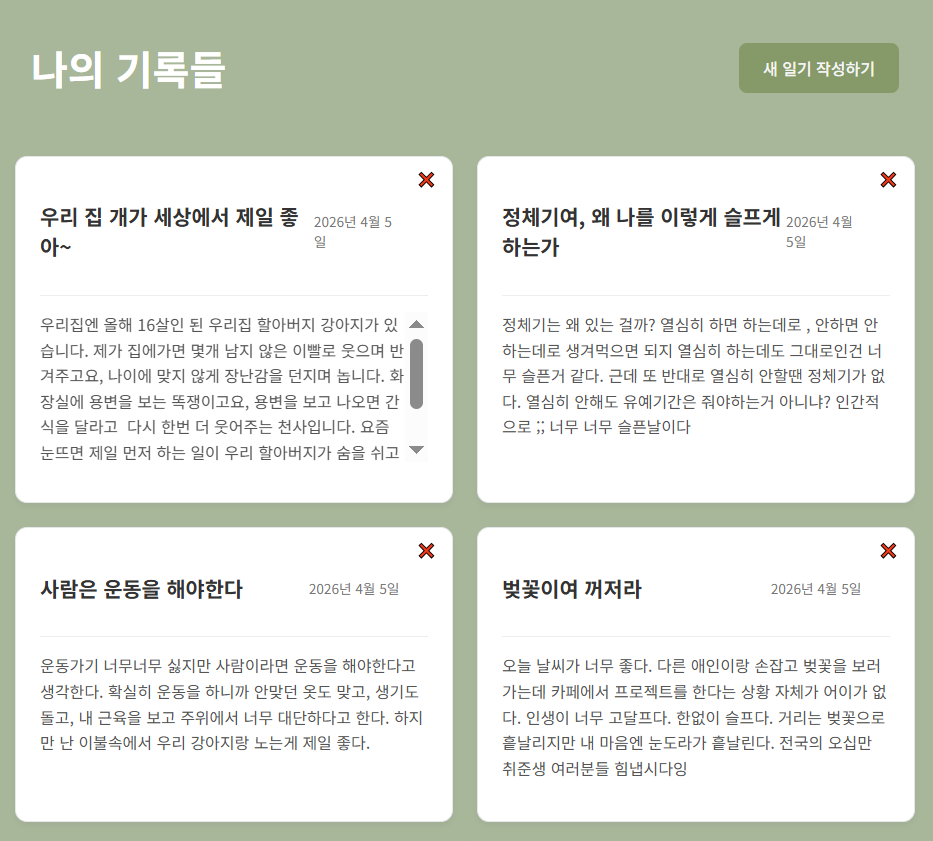
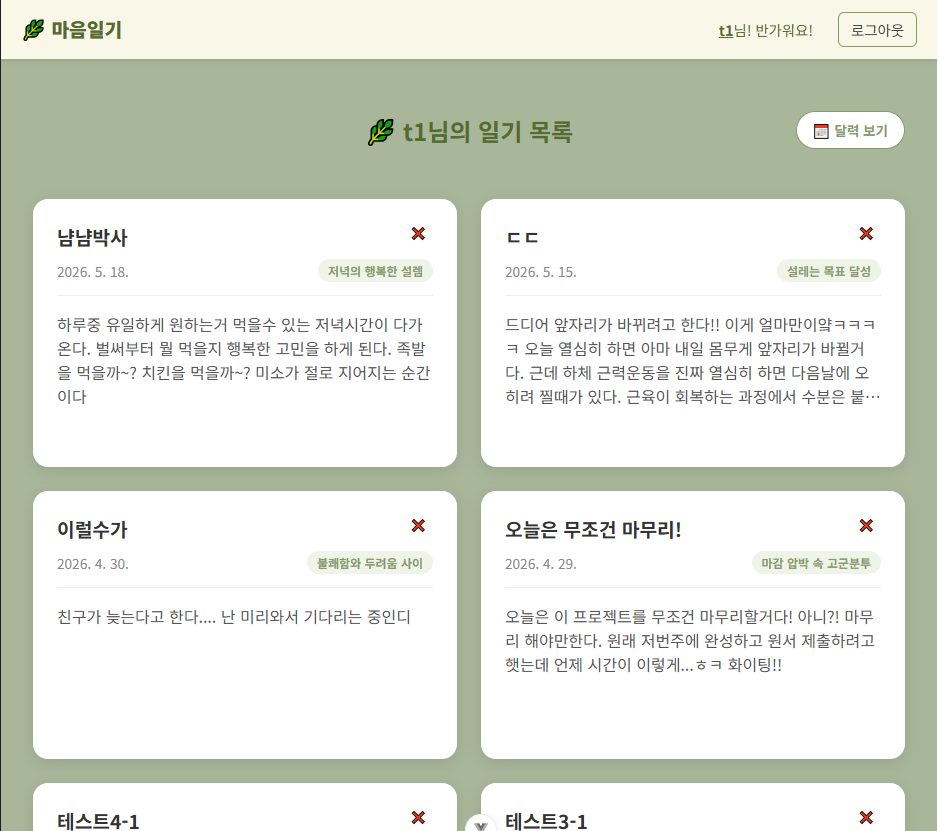
README 수정, 일기 삭제이상 수정, env코드 수정

diff --git a/front/src/views/DiaryList.vue b/front/src/views/DiaryList.vue
@@ -69,12 +69,12 @@
       </div>
     </div>
 
-    <div v-if="showDeleteModal" class="modal-overlay" @click="closeDeleteModal">
+    <div v-if="showDeleteModal" class="modal-overlay" @click="closeDetailModal">
       <div class="modal-content delete-confirm-modal" @click.stop>
         <h3>일기를 삭제할까요?</h3>
         <p>삭제한 기록은 되살릴 수 없습니다.</p>
         <div class="modal-actions">
-          <button class="cancel-btn" @click="closeDeleteModal">취소</button>
+          <button class="cancel-btn" @click="closeDetailModal">취소</button>
           <button class="confirm-delete-btn" @click="deleteDiary">삭제</button>
         </div>
       </div>
@@ -102,7 +102,7 @@ const calendarTitle = computed(() => {
 const fetchDiaries = async () => {
   try {
     const token = localStorage.getItem('access_token'); 
-    const res = await axios.get('http://localhost:8000/api/diaries/', {
+    const res = await axios.get(`${API_BASE_URL}diaries/`, {
       headers: {
         Authorization: `Bearer ${token}` 
       }
@@ -126,7 +126,6 @@ const openDetailModal = (diary) => {
 
 const openDeleteModal = (diary) => {
   selectedDiary.value = diary;
-  showDeleteModal.value = true; 
   showDeleteModal.value = true;
 };
 
@@ -140,17 +139,17 @@ const deleteDiary = async () => {
   const token = localStorage.getItem('access_token');
 
   try {
-    await axios.delete(`${API_URL}${selectedDiary.value.id}/`, {
+    await axios.delete(`${API_BASE_URL}diaries/${selectedDiary.value.id}/`, {
       headers: {
         Authorization: `Bearer ${token}`
       }
     });
 
-    await fetchDiaries();
+    await fetchDiaries(); 
     closeDetailModal();
     alert("일기가 삭제되었습니다.");
   } catch (error) {
-    console.error("삭제 실패:", error.res?.data || error);
+    console.error("삭제 실패:", error.response?.data || error);
     alert("삭제 중 오류가 발생했습니다.");
   }
 };

diff --git a/front/src/views/DiaryWrite.vue b/front/src/views/DiaryWrite.vue
@@ -80,10 +80,10 @@ export default {
       loadingInterval: null,
       recommendation: null,
       loadingMessages: [
-        "당신의 오늘을 읽고 있어요",
-        "AI가 마음을 분석 중이에요",
-        "당신에게 어울리는 노래를 찾는 중이에요",
-        "추천 이유를 정성껏 작성 중입니다",
+        "당신의 오늘을 읽고 있어요.",
+        "AI가 마음을 분석 중이에요.",
+        "당신에게 어울리는 노래를 찾는 중이에요.",
+        "추천 이유를 정성껏 작성 중입니다.",
         "거의 다 됐어요! 잠시만요~"
       ],
       currentMessageIndex: 0,

diff --git a/back/settings.py b/back/settings.py
@@ -157,7 +157,6 @@ STATICFILES_DIRS = [
 # 배포환경에서의 정적 파일 모아두는 곳
 # STATIC_ROOT = os.path.join(BASE_DIR, 'staticfiles')
 
-# 일기에 이미지를 첨부하는 기능에서 파일들을 저장하는 설정
 MEDIA_URL = '/media/'
 MEDIA_ROOT = os.path.join(BASE_DIR, 'media')
 

diff --git a/README.md b/README.md
@@ -1,166 +1,128 @@
-# 🌙 Light of Life
+# 🌿 Light of Life
 
-**텍스트 감정 분석 기반 음악 추천 일기 웹 서비스**
-
----
-
-## 📌 프로젝트 소개
-
-사용자가 일기를 작성하면 텍스트를 분석하여 감정을 도출하고,
-해당 감정에 맞는 음악을 추천해주는 웹 서비스입니다.
-
-단순 기록을 넘어, 감정 데이터를 기반으로 사용자 경험을 확장하는 것을 목표로 합니다.
+**사용자의 일기 텍스트를 AI로 분석하여 깊이 있는 감정 분석 리포트를 제공하고, 마음에 위로가 되는 맞춤형 음악(YouTube 링크)을 추천하는 감성 일기 웹 서비스 입니다.**
 
 ---
 
 ## 🎯 기획 배경
 
-일기는 감정을 정리하는 데 도움이 되지만, 단순 기록으로 끝나는 경우가 많습니다.  
-이 프로젝트는 사용자의 감정을 분석하고, 그 결과를 바탕으로 음악 추천까지 연결하여 더 몰입감 있는 기록 경험을 제공하고자 기획했습니다.
+일기는 하루의 감정을 정리하고 스스로를 돌아보는 데 좋은 도구이지만 대다수의 사용자들에게는 '단순 기록'으로 끝나는 경우가 많습니다. "내가 오늘 왜 이런 감정을 느꼈지?", "이럴 때 내 마음을 달래줄 음악은 없을까?"라는 고민에서 본 프로젝트가 시작되었습니다.
+
+Light of Life는 사용자의 감정을 단순히 기록하는 것을 넘어, AI 기술을 통해 감정 데이터를 시각화하고 맞춤형 음악 추천까지 연결함으로써 사용자에게 더 깊은 몰입감과 정서적 위로를 제공하는 것을 목표로 합니다.
 
 ---
 
 ## 🧠 핵심 기능
 
-### 1. 감정 분석 (Core Feature)
+1. 🌿 마음 달력 (대시보드): 일기를 기록한 날짜를 달력에 하이라이트(초록 점)로 표시하여 한눈에 나의 감정 기록 궤적을 추적할 수 있습니다.
 
-* 형태소 분석 기반 텍스트 처리 (KoNLPy - Okt)
-* 감정 사전 기반 점수 계산 (KNU 감성 사전 활용)
-* 커스텀 감정 사전 추가
-* 부정어 및 강조어 처리
+2. 🎭 AI 실시간 감정 분석: 일기를 작성하면 AI가 문맥을 분석하여 대표 감정 태그를 도출합니다.
 
-  * 예: "너무 좋다" → 가중치 증가
-  * 예: "어이가 없다" → 부정 처리
+3. 🎵 맞춤형 힐링 음악 추천: 분석된 감정 상태에 최적화된 추천 곡명과 추천 이유, 즉시 청취 가능한 유튜브(YouTube) 링크 버튼을 제공합니다.
+
+4. 📋 히스토리 관리: 과거에 작성했던 일기와 AI의 분석 리포트를 목록 및 모달 창을 통해 언제든지 다시 확인할 수 있습니다.
 
 ---
 
-### 2. 감정 점수 계산 로직
+## 📷 서비스 시연 및 화면 구성
+1. 로그인 및 회원가입 화면
 
-* 감정 단어별 기본 점수 부여
-* 강조어(booster) → 점수 가중치 적용
-* 부정어 → 감정 반전 처리
-* 최종 감정 분류
+<p align='left'>
+  <img src="./images/login.PNG" width='300'/>
+  <img src="./images/signup.PNG" width='300'/>
+</P>
 
-| 점수 범위 | 감정 |
-| ----- | -- |
-| ≥ 3   | 행복 |
-| ≥ 1   | 평온 |
-| ≤ -1  | 슬픔 |
-| ≤ -3  | 분노 |
-| 기타    | 중립 |
-
----
-
-### 3. 일기 작성 및 감정 결과 확인
-* 사용자가 일기를 입력하면 감정 분석 결과 제공
-* 감정 상태를 직관적으로 확인 가능
-
----
-
-### 4. 음악 추천 (구현 예정 / 확장 기능)
-
-* 감정 결과 기반 유튜브에서 음악 추천
-* Spotify / YouTube API 연동 예정
-
----
-
-### 5. 일기 기록 기능
-
-* 사용자가 일기 작성
-* 감정 결과와 함께 저장
-* 감정 데이터 기반 확장 가능
-
----
-
-## ⚙ 감정 분석 로직
-
-```text
-1. 텍스트 입력
-2. 전처리 (치환, 불용어 제거)
-3. 형태소 분석 (Okt)
-4. 감정 단어 추출
-5. 점수 계산
-   - 기본 점수
-   - 강조어 반영
-   - 부정어 반영
-6. 총합 계산
-7. 감정 분류
-```
-
----
-
-## 🧩 감정 점수 계산 방식
-* 기본점수: 감정 사전에 등록된 원래 점수
-* 최종점수: 강조어, 부정어 반영 후 실제 계산에 사용되는 점수
-  예시:
-  * 좋다 → 기본점수 2
-  * 너무 좋다 → 최종점수 3.0 (2 × 1.5)
-
----
-
-## 🛠 기술 스택
-
-### Backend
-
-* Django
-* Django REST Framework
-
-### NLP / AI
-
-* KoNLPy (Okt)
-* KNU 감성 사전
-* Hugging Face (확장 예정)
-
-### Front
-
-* Vue.js
-
-### 기타
-
-* 환경 변수 관리 (django-environ)
-
----
-
-## 🔥 주요 구현 포인트
-
-### ✔ 형태소 기반 감정 분석
-
-단순 키워드 포함 여부가 아니라 문자의 형태소를 분석하여 감정 단어를 추출하도록 구현했습니다.
-
-### ✔ 부정어 처리 개선
-
-'안', '못', '없다' 등과 같은 부정어가 문장 전체가 아닌 바로 다음 감정어에만 영향을 주도록 보완했습니다.
-
-### ✔ 커스텀 감정 사전 구축
-
-기존 감정 사전만으로는 반영되지 않는 표현을 보완하기 위해 '슬프다', '고달프다', '행복하다' 등의 단어를 별도로 추가했습니다.
-
-### ✔ 강조어 처리
-
-'너무', '정말', '매우' 등의 표현에 가중치를 부여하여 감정의 강도를 반영했습니다.
-
----
-
-📷 예시 화면
-
-### 일기 작성 화면
+2. 달력 (메인 대시보드)
 
 <p align='left'>
   <img src="./images/main1.PNG" width='300'/>
+  <img src="./images/main2.PNG" width='300'/>
 </P>
 
-### 분석 화면
+3. 일기 작성 화면
 
 <p align='left'>
-  <img src="./images/analyze1.PNG" width='300'/>
-  <img src="./images/analyze2.PNG" width='300'/>
+  <img src="./images/write.PNG" width='300'/>
 </P>
 
-### 일기 작성 리스트
+4. AI 분석화면
+
+<p align='left'>
+  <img src="./images/ai.PNG" width='300'/>
+  <img src="./images/ai2.PNG" width='300'/>
+  <img src="./images/ai3.PNG" width='300'/>
+</P>
+
+5. 일기 작성 리스트
 
 <p align='left'>
   <img src="./images/list.PNG" width='300'/>
+  <img src="./images/list2.PNG" width='300'/>
 </P>
+
+---
+
+## 🚀 AI 아키텍처 고도화 비교 실험
+
+본 프로젝트는 텍스트 감정 분석 및 음악 추천 기능의 Latency(대기 시간) 단축과 데이터 정형화를 목적으로 **Hugging Face 모델 연동 구조**와 **Gemini 단독 구조** 간의 비교 실험 및 리팩토링을 진행했습니다.
+
+### 📊 AI 모델 파이프라인 변천사
+
+* **[기존: 1세대 하이브리드 아키텍처]**
+    일기 작성 ➡ Hugging Face API (감정 텍스트 분류) ➡ 결과 파싱 ➡ Gemini API 전달 (음악 추천 및 이유 생성) ➡ 프론트엔드 반환 `(총 2회 API 호출)`
+* **[현재: 2세대 단독 올인원 아키텍처]**
+    일기 작성 ➡ Gemini 2.0 Flash API (감정 맥락 분석 + 음악 매칭 + 유튜브 URL 검색을 프롬프트 엔지니어링으로 동시 처리) ➡ 구조화된 JSON 반환 `(단 1회 API 호출)`
+
+### 📈 아키텍처 비교 분석 결과
+
+| 비교 지표 | [기존] Hugging Face + Gemini 하이브리드 | [현재] Gemini 2.0 Flash 단독 (최적화) |
+| :--- | :--- | :--- |
+| **시스템 복잡도** | **높음** (두 채널의 API 가동, 서로 다른 Response 포맷 핸들링 필요) | **낮음** (단일 API 엔드포인트 관리로 백엔드 코드 경량화) |
+| **네트워크 호출 (Round Trip)** | 총 2회 (Client ➡ 서버 ➡ HF API ➡ Gemini API) | **단 1회** (Client ➡ 서버 ➡ Gemini API) |
+| **평균 응답 속도 (Latency)** | 약 3.5초 ~ 5초 (HF 프리티어 모델의 콜드 스타트 및 2차 API 대기 시간 누적) | **약 1.2초 ~ 1.5초** (호출 단일화 및 Flash 모델 특유의 빠른 인퍼런스 속도 확보) |
+| **데이터 파싱 안정성** | **취약함** (HF가 뱉은 감정 단어 파싱 에러 및 Gemini의 비정형 텍스트 변환 에러 발생 위험 누적) | **강력함** (`response_mime_type: 'application/json'` 구조화 출력 설정을 통한 무결성 보장) |
+| **문맥(Context) 이해도** | **제한적** (HF 분류기가 단어 위주로 감정을 1차 재단하여, Gemini가 전체 일기 맥락을 깊게 인지하기 어려움) | **매우 높음** (일기 전체의 행간, 비유적 우울감, 반어법까지 LLM이 통으로 분석하여 정밀한 매칭 가능) |
+
+> 💡 **인프라 선회 배경**
+> 극초기 기획 단계에서는 KoNLPy(Okt) 형태소 분석기와 KNU 감성 사전을 결합한 규칙 기반 시스템을 구상했으나 단순 단어 매칭 방식으로는 "어이가 없다"와 같은 문맥적 의미나 강조어 가중치 처리에 한계가 있어 LLM 기반 아키텍처로 전면 선회하였습니다.
+
+---
+
+## 🛠 주요 구현 및 리팩토링 포인트 (Refactoring)
+
+정보처리기사 소프트웨어 공학 지식을 기반으로 서비스의 안정성, 보안성, 무결성을 확보한 핵심 구현 포인트입니다.
+
+### ① 엄격한 구조화 출력 (Strict Structured Outputs) 기반 AI 연동
+* **구현 배경**: LLM 단독 구조로 변경할 때 가장 큰 리스크는 AI가 무작위 텍스트(예: *"추천해 드리는 노래는..."*)를 섞어 반환하여 백엔드에서 JSON 파싱 에러(500 에러)를 유발한다는 점이었습니다.
+* **해결 방법**: Gemini API 호출 config에 `'response_mime_type': 'application/json'` 스키마를 강제 적용했습니다. 이로 인해 AI가 사설 없이 정확히 백엔드가 요구한 `emotion`, `recommendation_song`, `recommendation_reason`, `youtube_url` 키 값을 가진 JSON 규격만 반환하도록 설계하여 데이터 파싱 오류를 **0%**로 안정화했습니다.
+
+### ② 보안성 강화: 접근 제어 및 환경 변수(.env) 아키텍처 분리
+* **구현 배경**: 하드코딩된 Django JWT 시크릿 키, 구글 제미나이 API Key가 소스코드에 그대로 노출되어 GitHub 업로드 시 오픈소스 보안 탈취 위험에 직면했습니다. 또한, 다른 사용자의 일기 데이터가 유출 및 삭제되는 접근 제어 결함이 발견되었습니다.
+* **해결 방법**: 백엔드(`python-environ`) 및 프론트엔드(`import.meta.env`) 환경 변수 시스템을 구축하여 모든 기밀 데이터를 `.env` 파일로 격리하고 `.gitignore` 설정을 통해 보안 기밀성을 확보했습니다. 더불어 장고 뷰셋(`ModelViewSet`)의 `get_queryset` 메서드를 `Diary.objects.filter(author=self.request.user)` 구조로 리팩토링하여 **인가(Authorization)된 본인의 일기만 조회 및 삭제**가 가능하도록 철저한 데이터 격리를 구현했습니다.
+
+### ③ 데이터 무결성 확보: VCalendar 달력 날짜 매칭 버그 픽스
+* **구현 배경**: 장고(Django)가 생성한 생성일 타임스탬프 필드의 시간대(Timezone ISO-8601) 정보 차이로 인해 프론트엔드 달력 라이브러리(VCalendar)가 일기 작성일을 인식하지 못해 달력 대시보드 하이라이트가 누락되는 현상이 있었습니다.
+* **해결 방법**: 시간 단위를 배제하고 일자 단위 매칭을 제공하기 위해 백엔드 모델의 순수 일자 데이터(`date`) 필드를 매칭 키로 지정하고, JavaScript의 Date 객체 컨버팅 포맷을 일치시켜 달력 대시보드 기능을 정상화했습니다.
+
+---
+
+## 🛠 Tech Stack
+
+### 💻 Frontend
+* Vue 3 (Composition API, `<script setup>`)
+* Vue Router / Axios
+* VCalendar (달력 대시보드 및 마크 기능 구현)
+
+### ⚙ Backend
+* Django / Django REST Framework (DRF)
+* Simple JWT (토큰 기반 사용자 인증 및 인가 관리)
+
+### 🤖 AI & Infrastructure
+* Google Gemini 2.0 Flash API (Structured JSON Mode)
+* Git / GitHub (형상 관리 및 브랜치 전략)
+
+### 기타
+* django-environ (환경 변수 관리)
 
 ---
 
@@ -183,11 +145,18 @@ pip install -r requirements.txt
 ```
 
 ### 4. 환경 변수 설정
-```
-SECRET_KEY=your_secret_key
-DEBUG=True
-DATABASE_URL=sqlite:///db.sqlite3
-```
+* **Backend (`back/.env`)**
+    ```env
+    SECRET_KEY=your_django_secret_key
+    DEBUG=True
+    GOOGLE_API_KEY=your_gemini_api_key
+    ```
+
+* **Frontend (`front/.env`)**
+    ```env
+    VITE_API_BASE_URL=http://localhost:8000/api/
+    ```
+    
 ### 5. 데이터베이스 마이그레이션
 ```bash
 python manage.py migrate
@@ -195,32 +164,19 @@ python manage.py migrate
 
 ### 6. 백엔드 서버 실행
 ```bash
+# 프로젝트 루트(Light_of_Life) 폴더에서 백엔드 폴더로 이동 후 가상환경 실행
+.\venv\Scripts\activate 
 python manage.py runserver
 ```
 
 ### 7. 프론트엔드 실행
 ```bash
-cd front
+# 프로젝트 루트(Light_of_Life) 폴더 기준 프론트엔드로 이동
+cd front 
+# 필요한 프론트엔드 라이브러리(VCalendar, Axios 등) 통전 설치
 npm install
+# 프론트엔드 개발 서버 가동
 npm run dev
 ```
 
 ---
-
-##  🌱 향후 개선 방향
-
-* Hugging Face 기반 감정 분류 모델 적용
-* 로그인 기능 및 개인화 기능 추가
-* 사용자 감정 데이터 기반 추천 고도화
-* 음악 추천 정확도 개선
-* 로그인 기능 및 개인화 기능 추가
-
----
-
-## 📈 프로젝트 의의
-
-단순한 CRUD 서비스가 아니라,
-텍스트 데이터를 분석하고 이를 기반으로 사용자 경험을 확장한 프로젝트입니다.
-
-특히 감정 분석 로직을 직접 구현하고 개선해 나가는 과정에서
-데이터 처리와 모델링역량을 강화했습니다.
